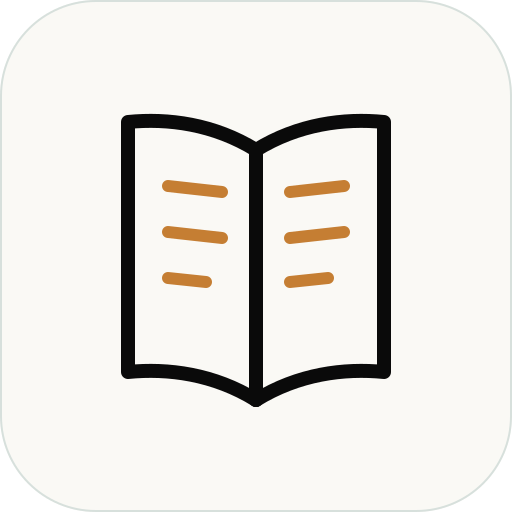
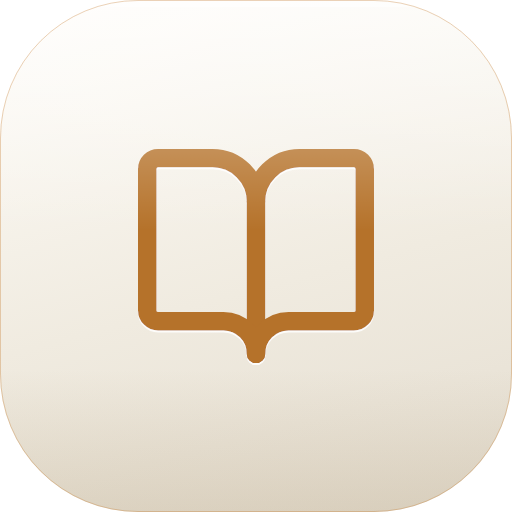
3.2.20: иконка продукта в стиле Bronze Engraved
Рукодельная двухцветная книга заменена на плитку по спеке: бронзовый градиент
165°, радиус 0.27×размер, рамка, блик, глиф Lucide book-open штрихом #B5722A с
гравировкой. Собрана в SVG (источник) и отрендерена в PNG 512 через Chrome —
растр точно как в браузере. Сверена рядом с CSS-спекой на светлом и тёмном
фоне.

Иконка теперь едет вместе с версией (H10: версия несёт архив+страницу+иконку);
add-version слал только страницу и архив, поэтому иконка листинга не менялась.
Приёмка проверяет has_icon.

diff --git a/store_app/product/deploy_prerelease_claude.py b/store_app/product/deploy_prerelease_claude.py
@@ -33,7 +33,7 @@ DESCRIPTION = (
     "Предрелиз для приёмки владельцем. Исправлена установка Codex и Claude "
     "на чистых машинах и восстановление после отложенной задачи. Живой продукт не затронут."
 )
-VERSION = "3.2.19"
+VERSION = "3.2.20"
 SCOPES = ["expert.run", "device.run"]
 # publish-stream требует хотя бы один тег: без него он отвечает HTTP 400.
 # У живого листинга теги пустые, потому что он создавался другим путём.
@@ -57,6 +57,7 @@ EXPERTS = {
     "extella_local_llm_product_setup": HERE / "expert_extella_local_llm_setup.py",
 }
 PAGE = HERE.parent / "index.html"
+ICON = HERE.parent / "icon.png"
 # Локальная часть: без неё этап bridge не находит рантайм на машине покупателя.
 ARCHIVE = CLAUDE_PLUGIN / "dist" / "extella-claude-bridge-archive.zip"
 
@@ -226,8 +227,10 @@ def add_version_to_live(agent_id, items):
     }
     if not ARCHIVE.is_file():
         raise DeployError(f"нет собранного архива {ARCHIVE.name}: сначала build-archive.mjs")
+    if not ICON.is_file():
+        raise DeployError(f"нет иконки {ICON.name}")
     status, raw = request(OS_BASE, f"/api/add-version-stream/{LIVE_LISTING_ID}",
-                          fields=fields, files={"page": PAGE, "archive": ARCHIVE})
+                          fields=fields, files={"page": PAGE, "archive": ARCHIVE, "icon": ICON})
     if status != 200:
         raise DeployError(f"добавление версии ответило HTTP {status}: {raw[:200]}")
     return stream_done(raw, "добавление версии")
@@ -249,6 +252,8 @@ def verify_live():
         problems.append("Expert не приложился")
     if not version.get("archive_ext"):
         problems.append("к версии не приложился архив — рантайм не доедет до покупателя")
+    if live.get("has_icon") != 1:
+        problems.append("иконка листинга не установилась")
     status, page = request(OS_BASE, f"/app-page/{LIVE_LISTING_ID}/")
     if status != 200:
         problems.append(f"страница отдаётся с кодом {status}")

diff --git a/store_app/product/expert_extella_codex_product_setup.py b/store_app/product/expert_extella_codex_product_setup.py
@@ -3,7 +3,7 @@ def extella_codex_product_setup(action="preflight") -> str:
     step = action
     BUILDER_REPO = "https://github.com/AnvarBakiyev/extella-codex-bridge.git"
     BUILDER_REF = "v0.3.6"
-    SETUP_VERSION = "3.2.19"
+    SETUP_VERSION = "3.2.20"
     # Independent agent-building standards contract; do not advance with bridge-only releases.
     STANDARDS_REF = "v0.3.0"
     MARKETPLACE = "extella-codex"

diff --git a/store_app/product/expert_extella_local_llm_setup.py b/store_app/product/expert_extella_local_llm_setup.py
@@ -22,7 +22,7 @@ def extella_local_llm_product_setup(action: str = "preflight",
     """
     import json, os, platform, shutil, subprocess, urllib.request
 
-    SETUP_VERSION = "3.2.19"
+    SETUP_VERSION = "3.2.20"
     HOME = os.path.expanduser("~")
     APP = "/Applications/LM Studio.app"
     BUNDLED_LMS = APP + "/Contents/Resources/app/.webpack/lms"
